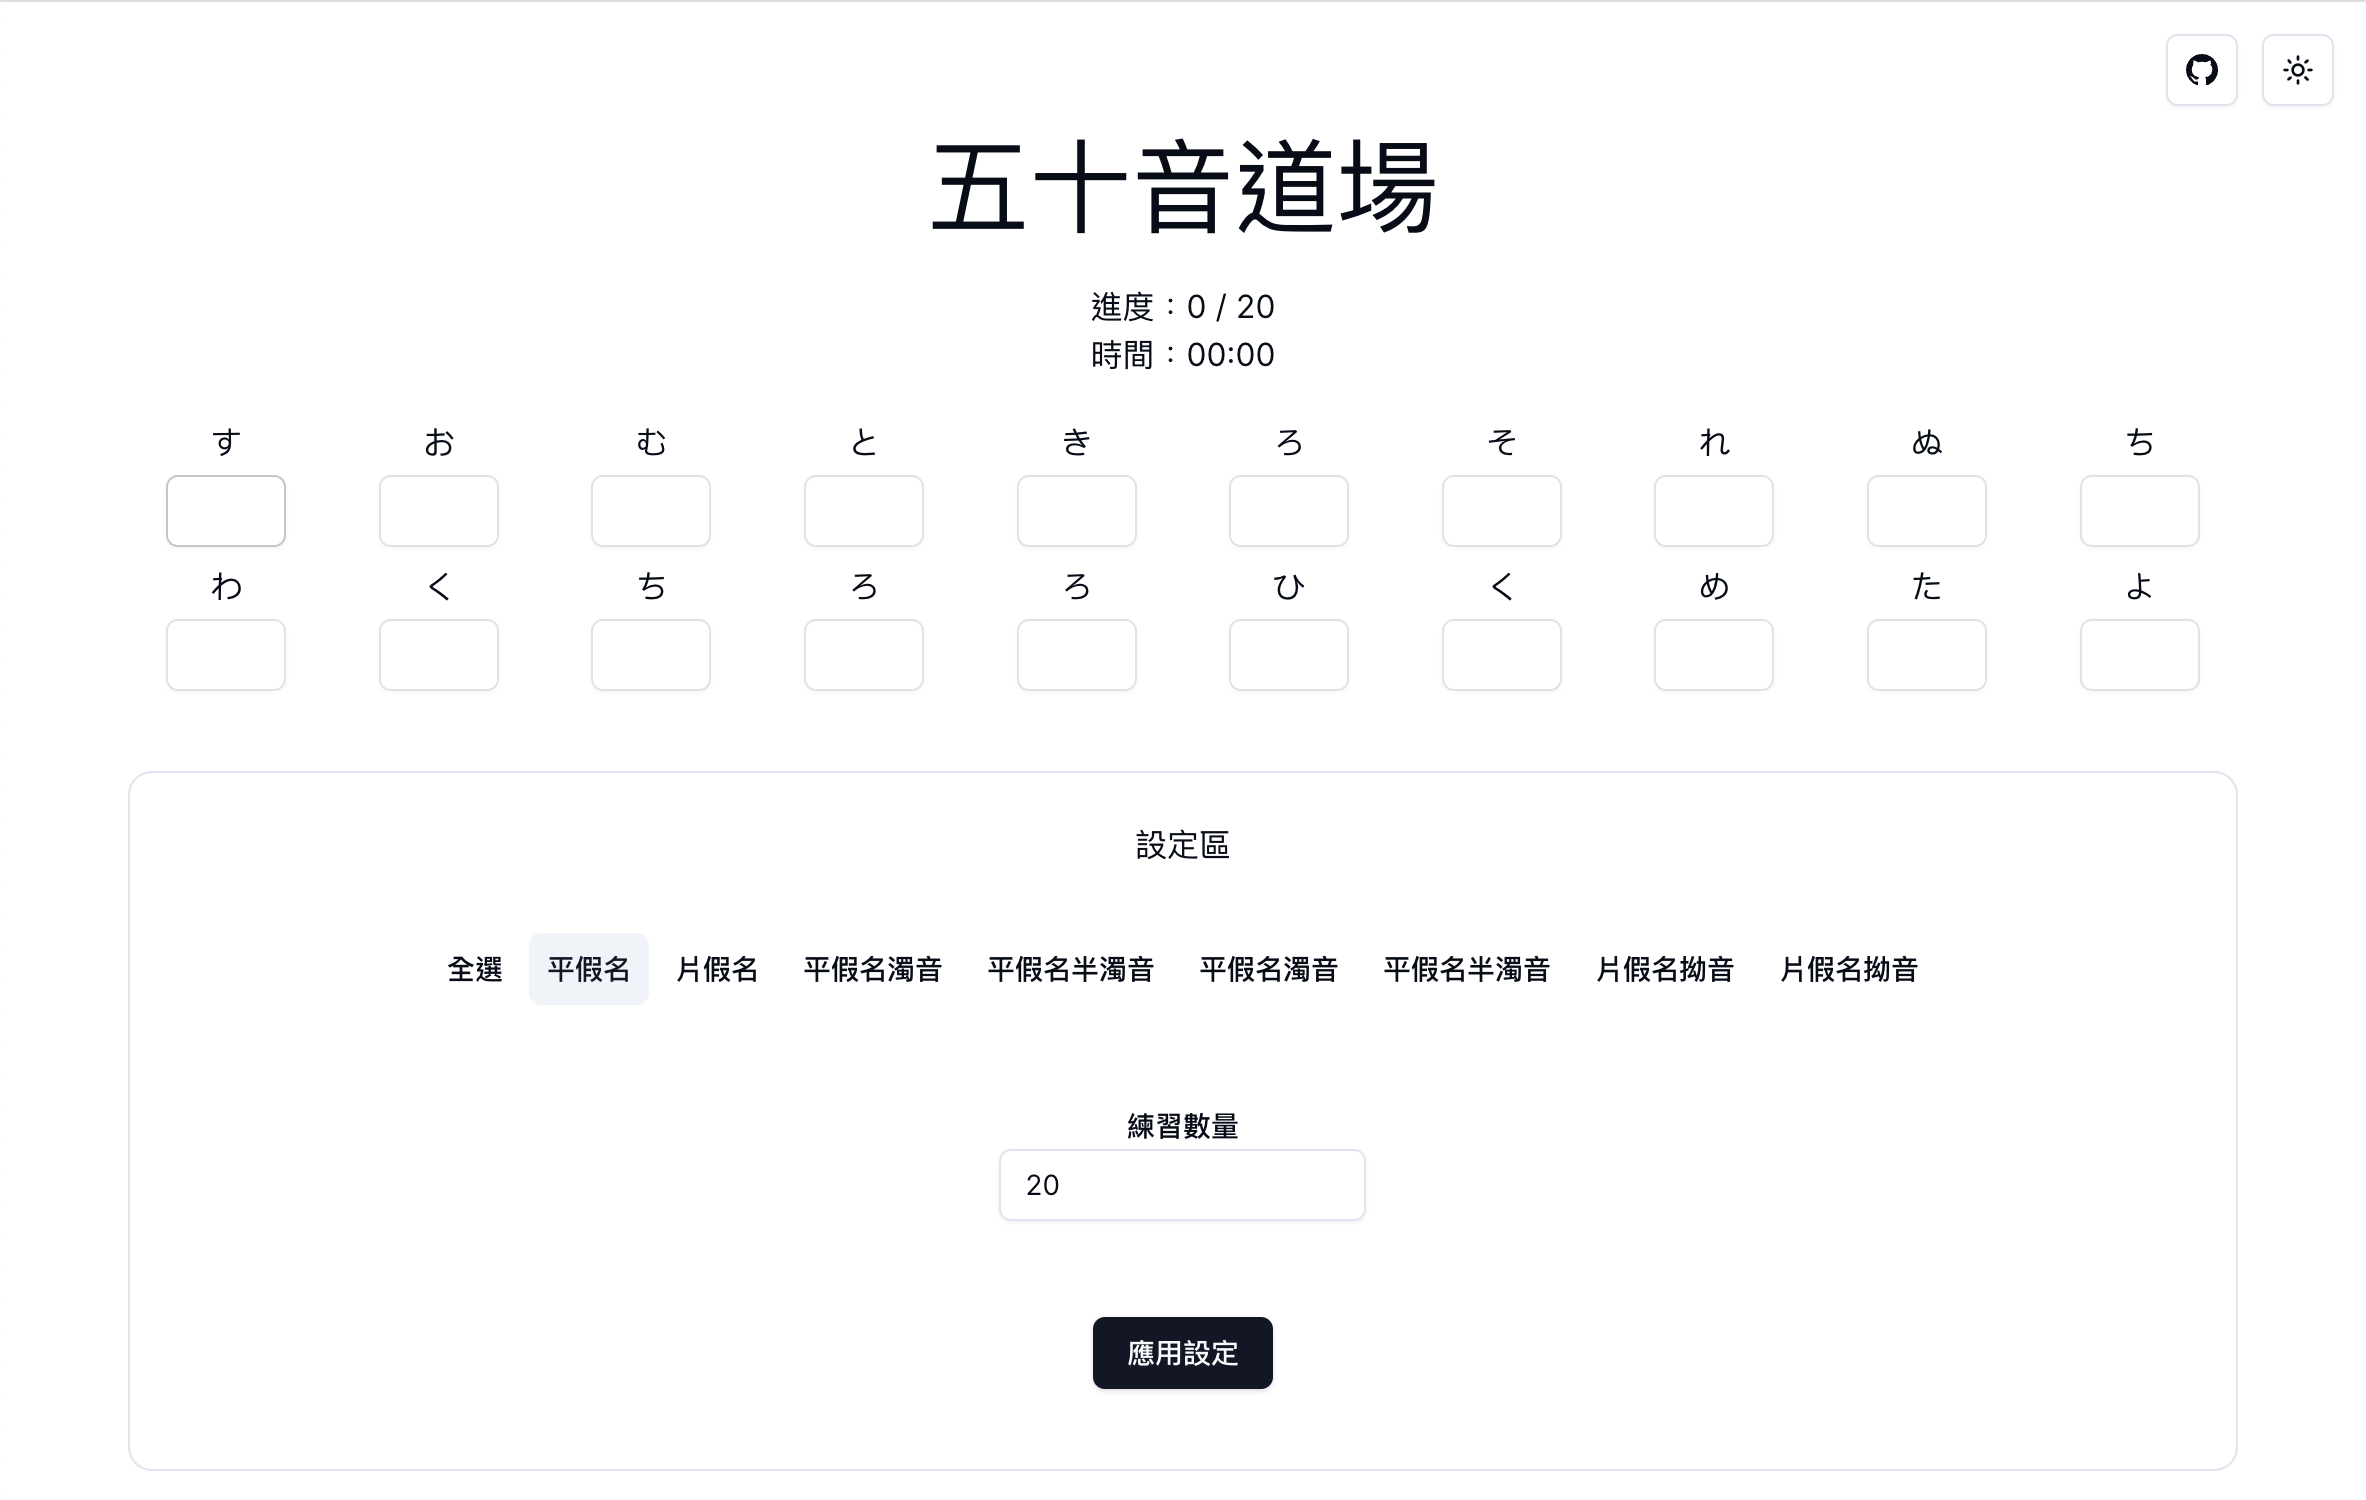
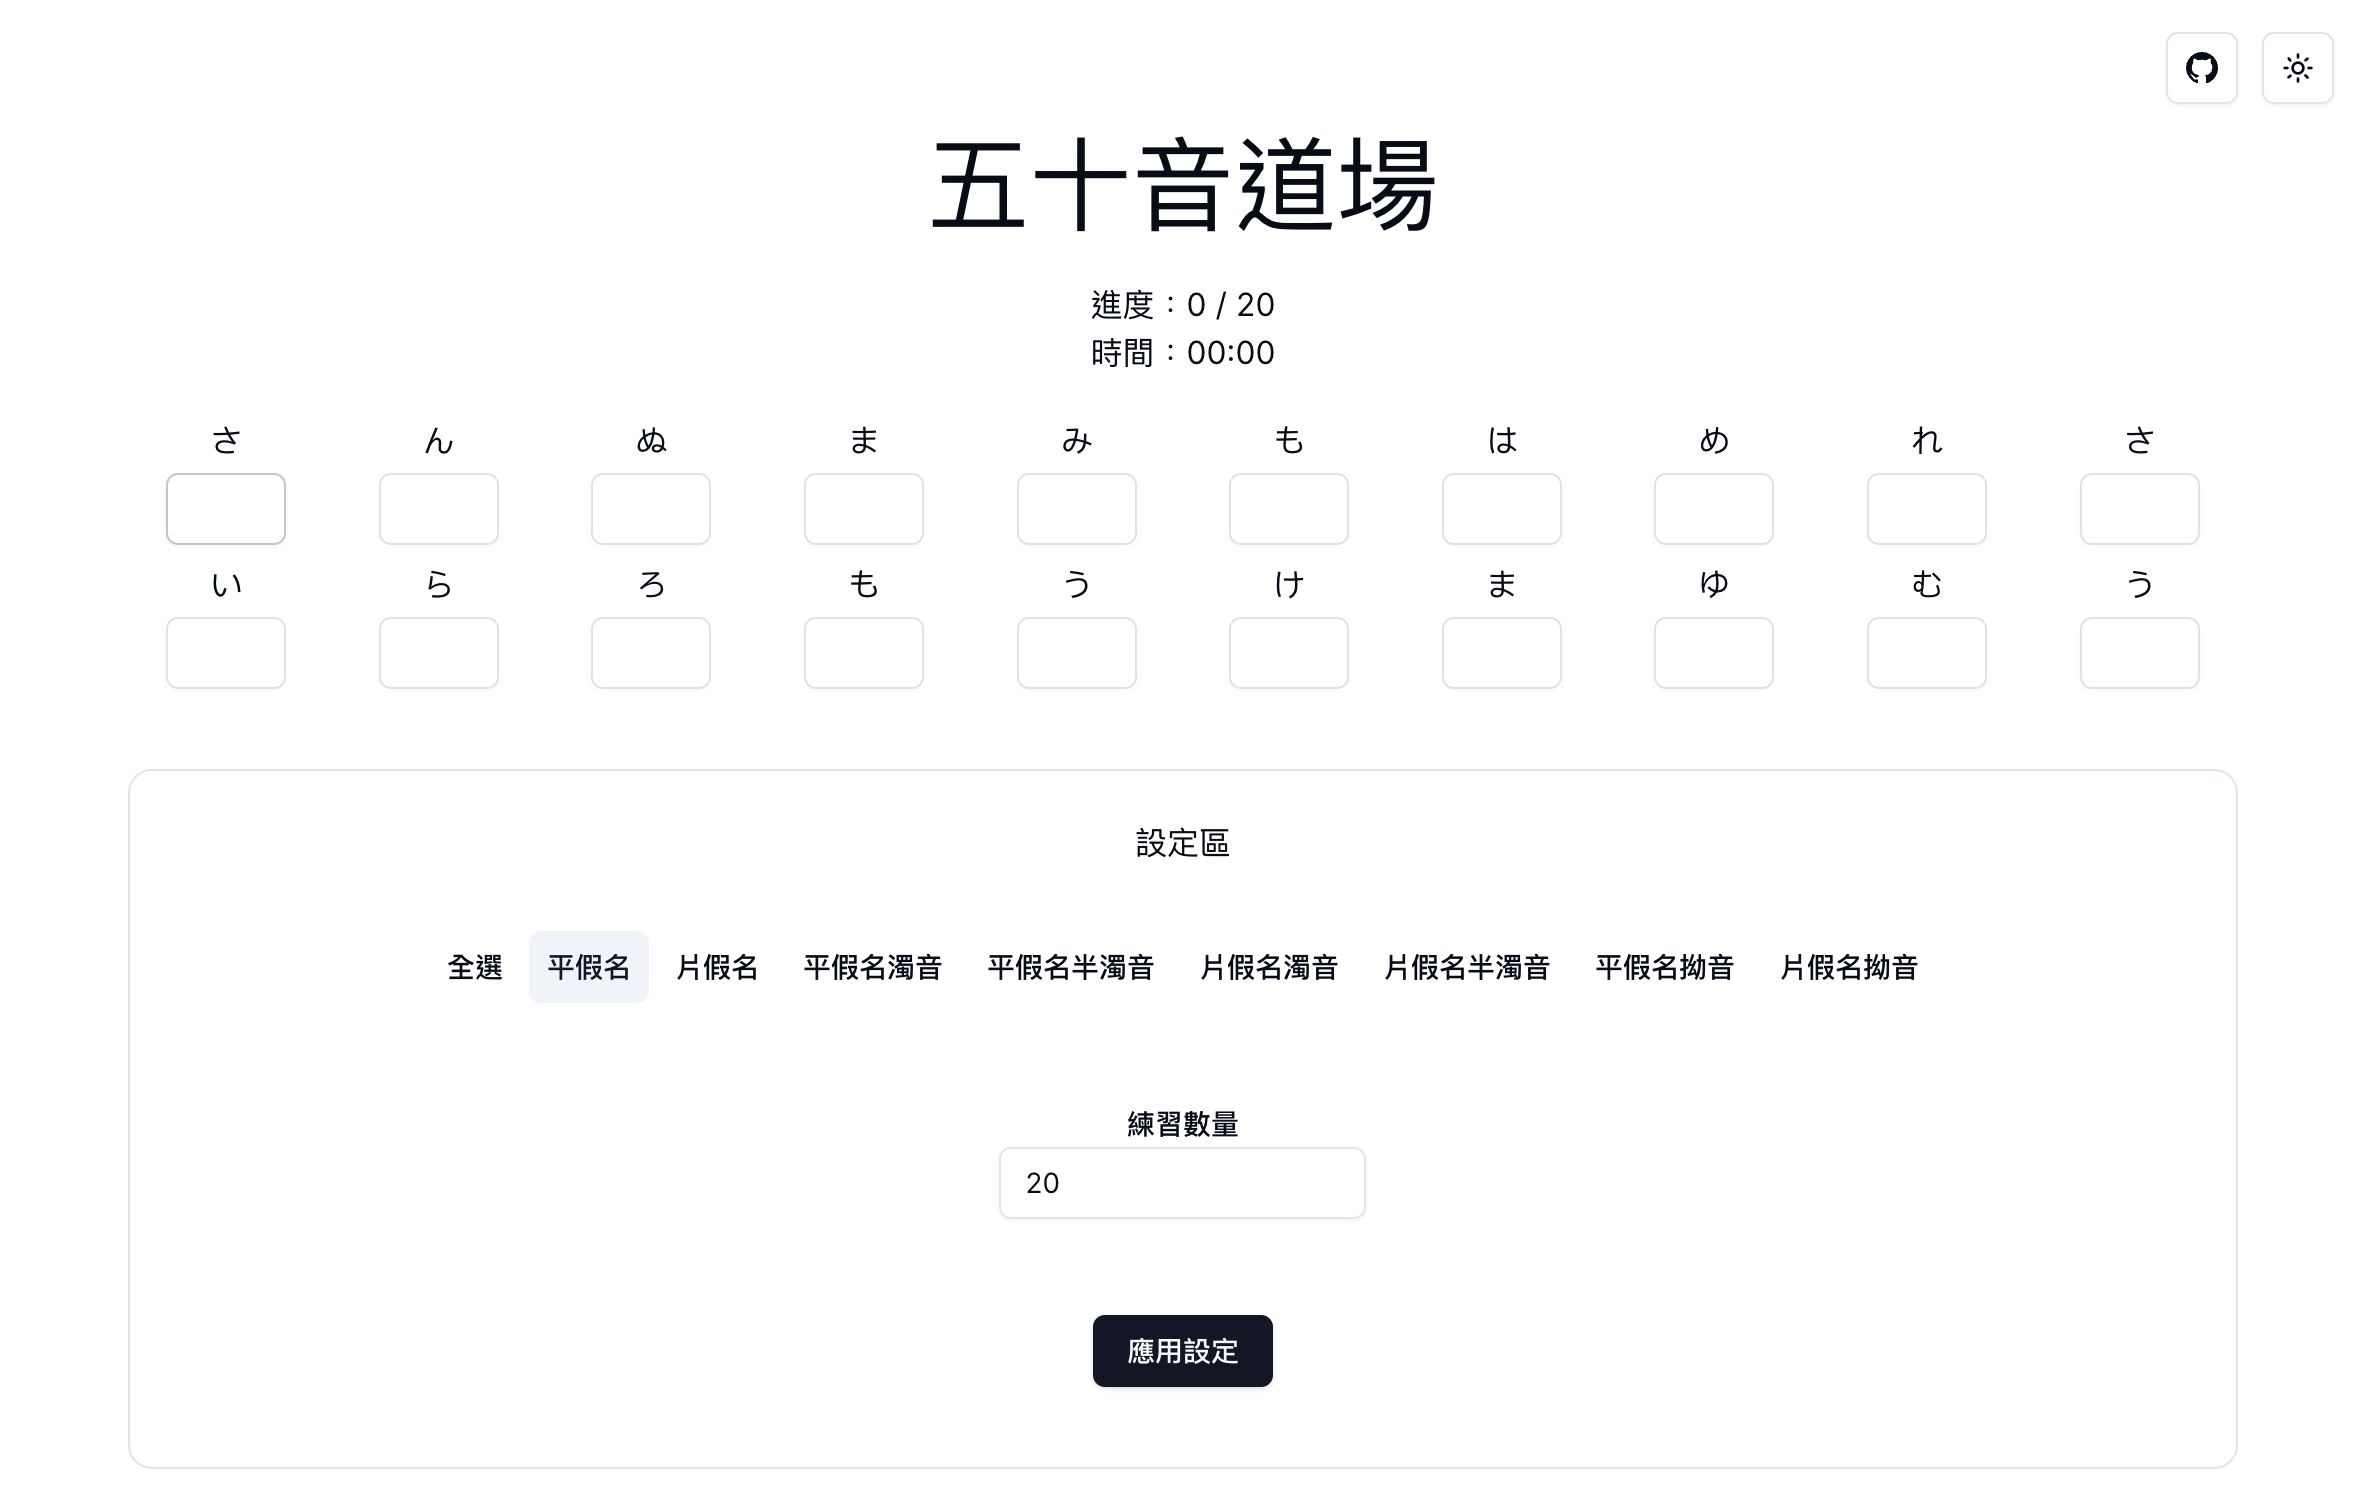
Fit typo

diff --git a/src/data/dictionary.js b/src/data/dictionary.js
@@ -251,15 +251,15 @@ const dictionaryMap = {
     dictionary: fullDictionary.hiragana_handakuon,
   },
   katakana_dakuten: {
-    name: "平假名濁音",
+    name: "片假名濁音",
     dictionary: fullDictionary.katakana_dakuten,
   },
   katakana_handakuon: {
-    name: "平假名半濁音",
+    name: "片假名半濁音",
     dictionary: fullDictionary.katakana_handakuon,
   },
   hiragana_yoon: {
-    name: "片假名拗音",
+    name: "平假名拗音",
     dictionary: fullDictionary.hiragana_yoon,
   },
   katakana_yoon: {
